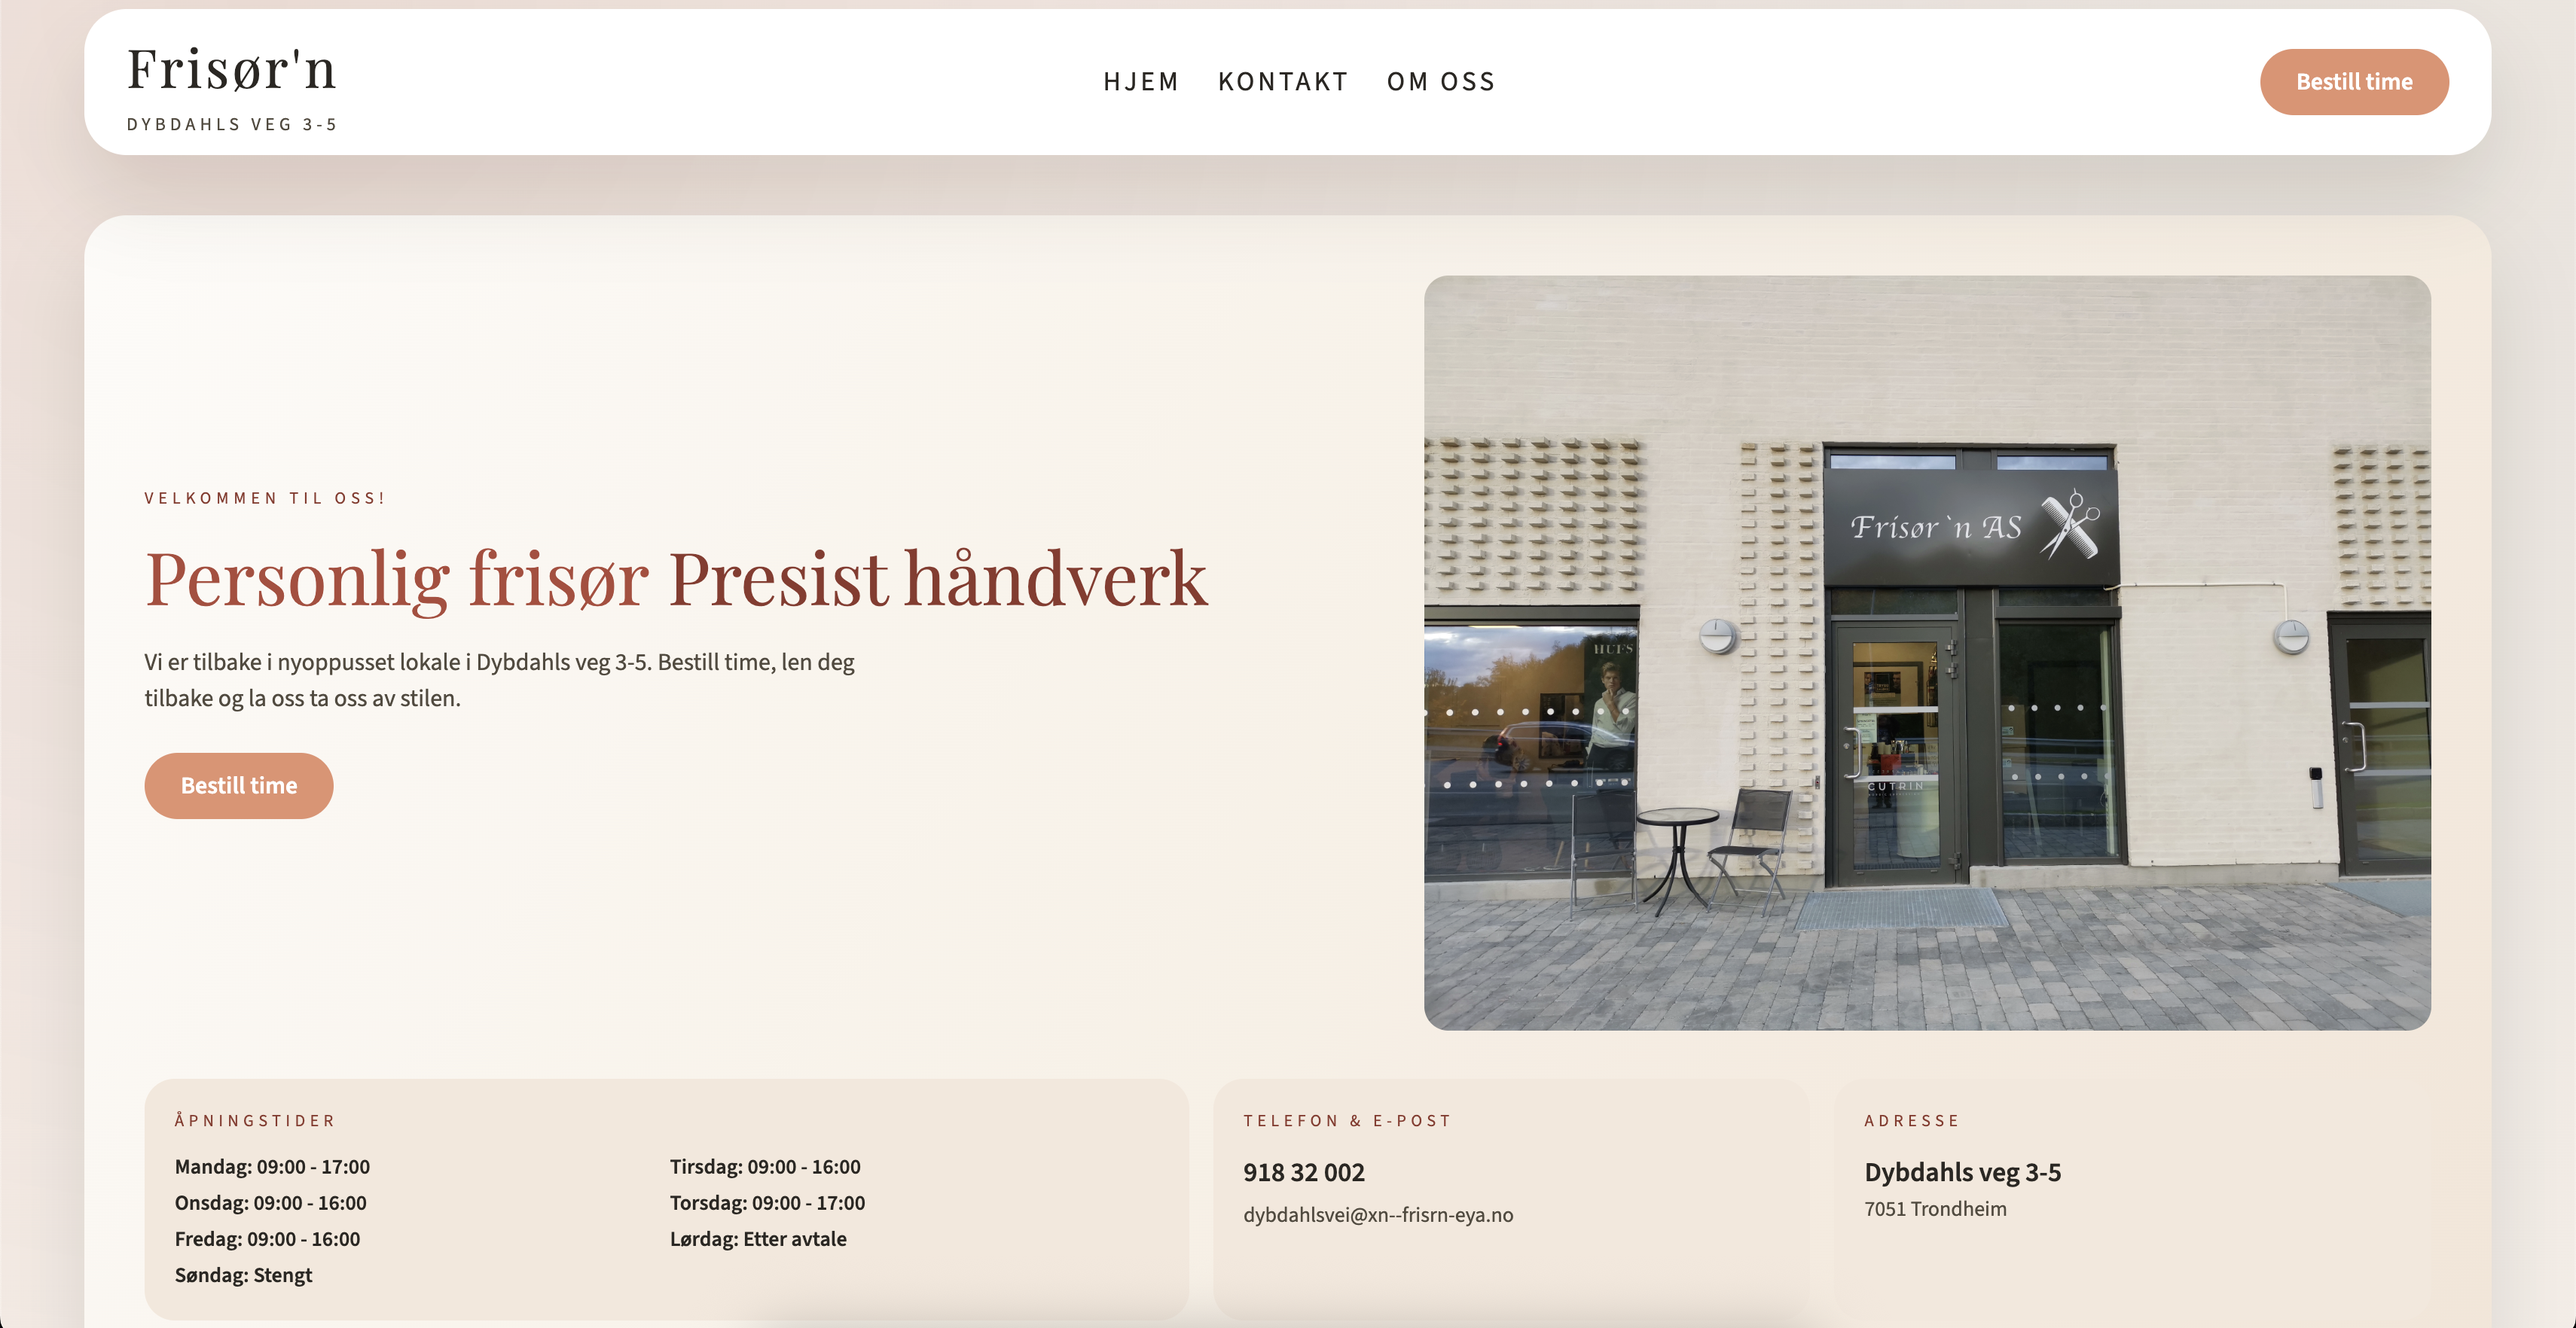
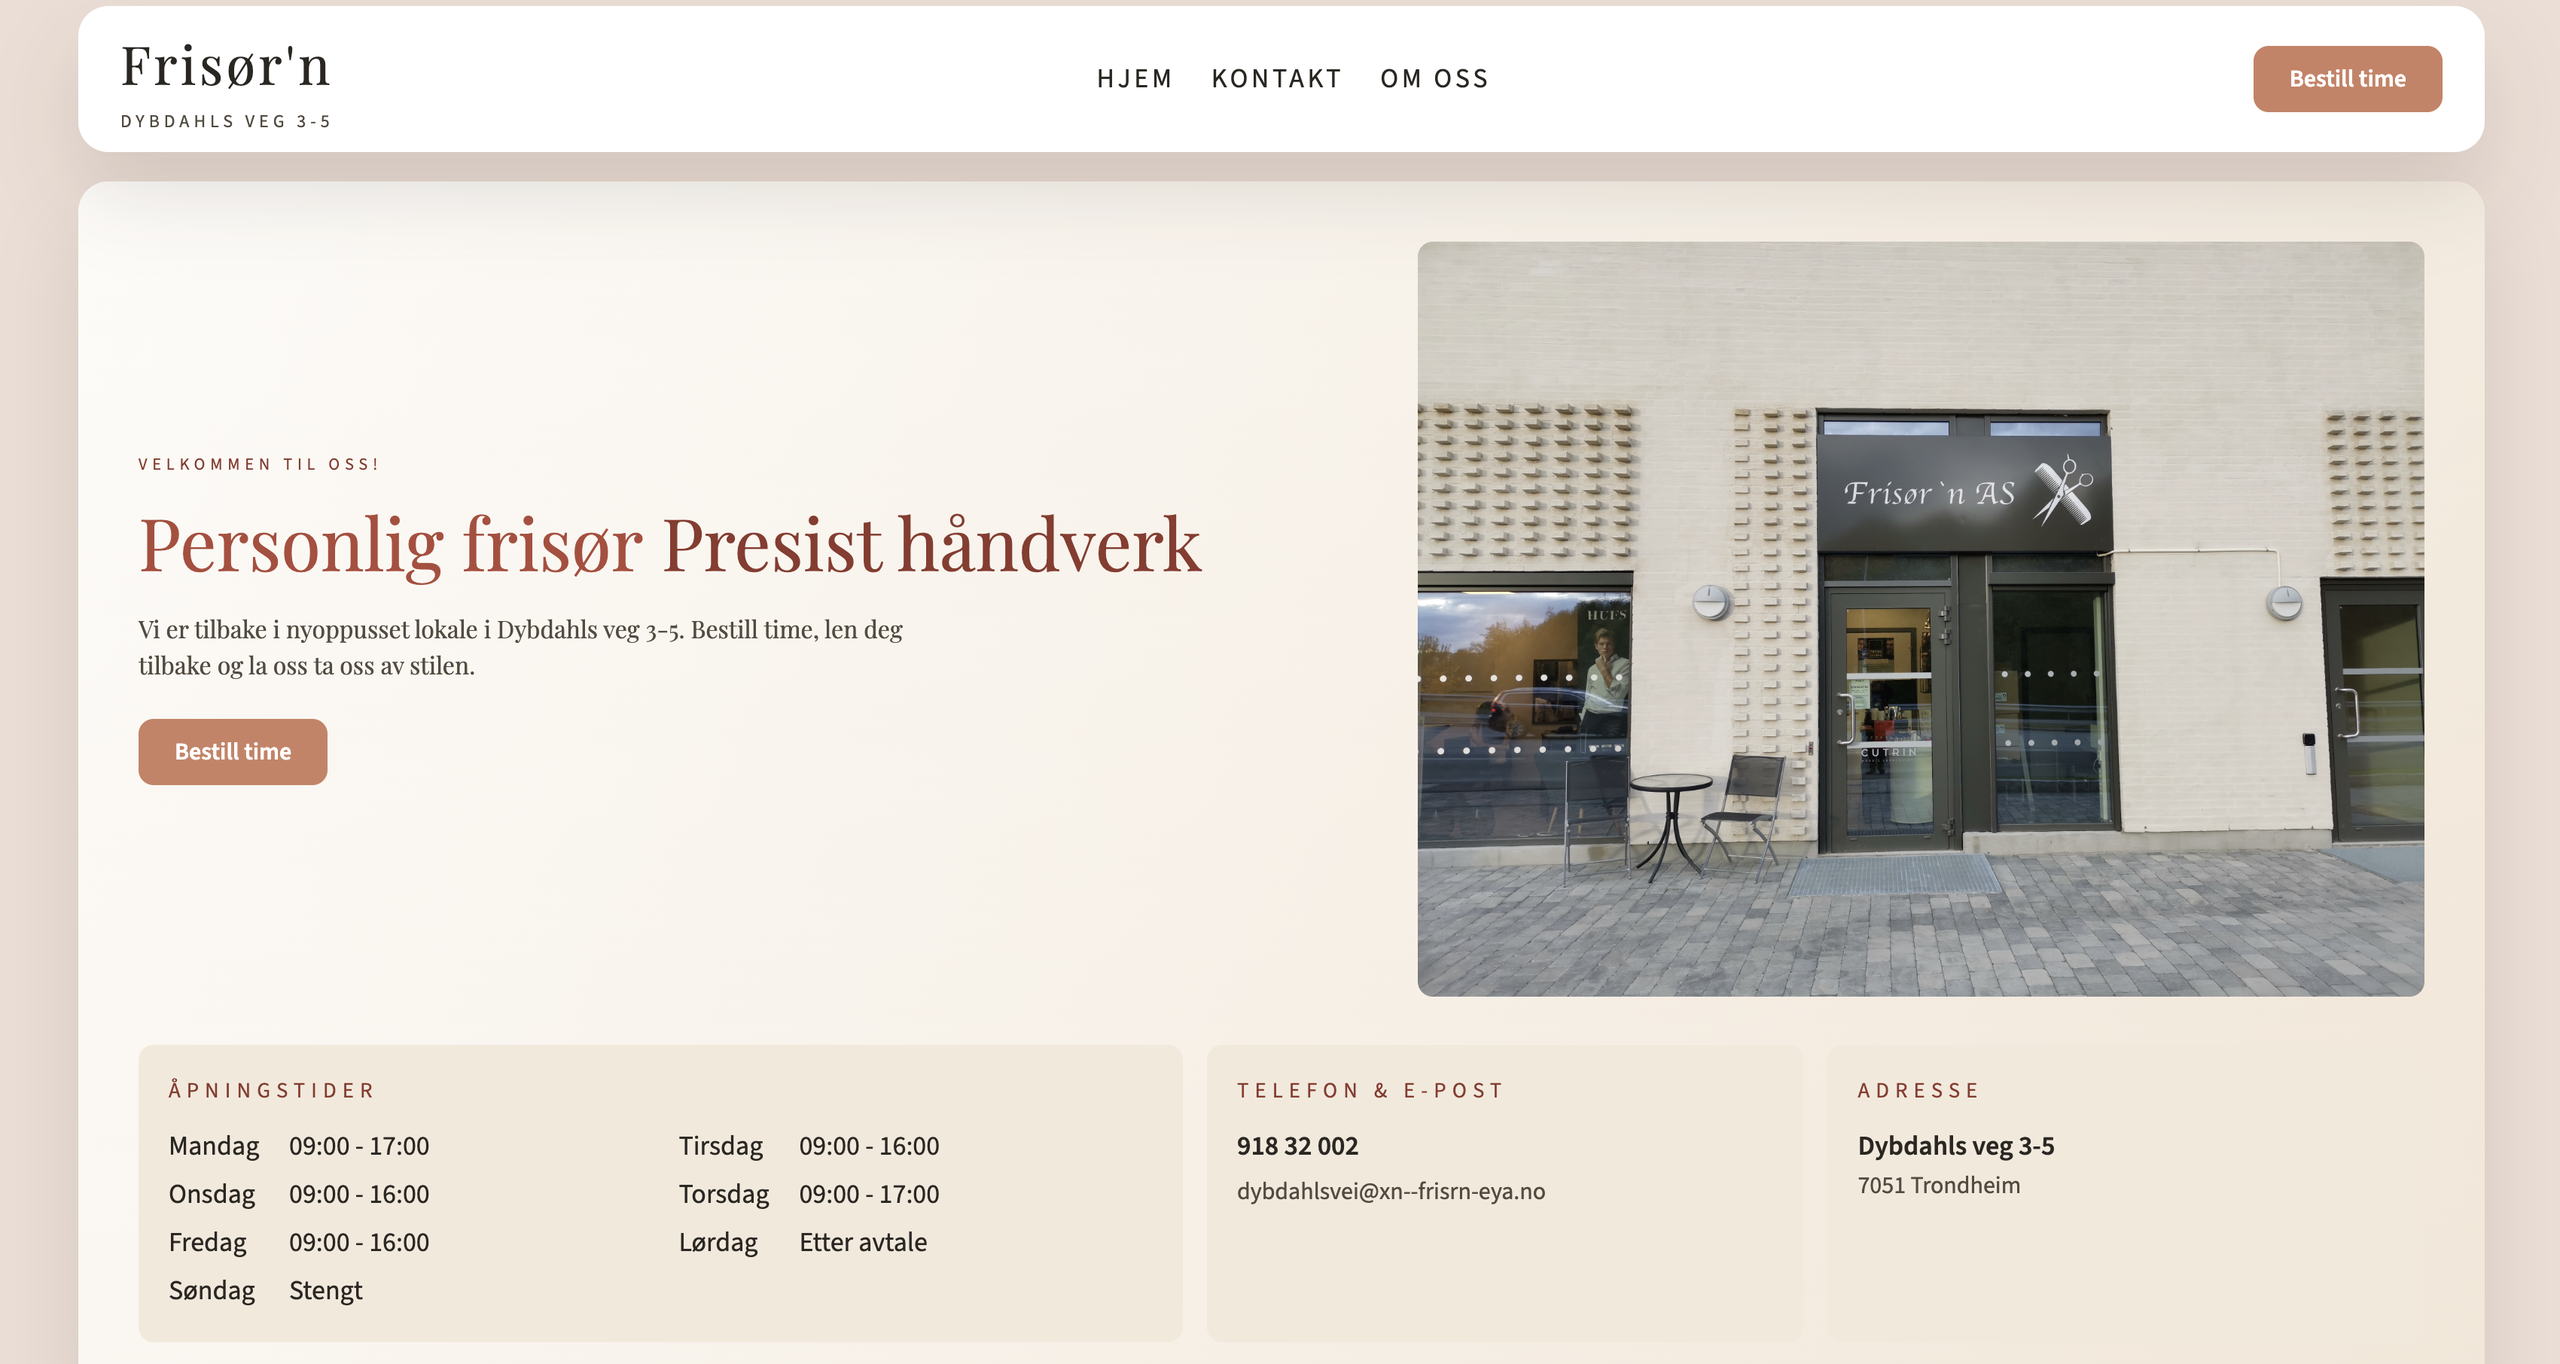
Frontpage improvement

diff --git a/frisorn/src/pages/homePage/HomePage.tsx b/frisorn/src/pages/homePage/HomePage.tsx
@@ -43,12 +43,12 @@ function HomePage() {
                     </div>
                     <div className="mt-8 grid gap-4 lg:grid-cols-[1.4fr_0.8fr_0.8fr]">
                         <div className="rounded-[var(--radius-card)] border-[var(--border-width)] border-border bg-surface-warm p-5">
-                            <p className="text-[0.7rem] uppercase tracking-[0.28em] text-accent-dark">
+                            <p className="text-[0.9rem] uppercase tracking-[0.28em] text-accent-dark">
                                 Åpningstider
                             </p>
-                            <dl className="mt-3 grid gap-x-6 gap-y-1 text-xs text-text sm:grid-cols-2 sm:text-sm">
+                            <dl className="mt-3 grid gap-x-6 gap-y-1 text-m text-text sm:grid-cols-2 sm:text-sm">
                                 {openingHours.map(({ day, hours }) => (
-                                    <div key={day} className="grid grid-cols-[4.5rem_1fr] gap-2">
+                                    <div key={day} className="grid grid-cols-[4.5rem_1fr] text-lg gap-2">
                                         <dt>{day}</dt>
                                         <dd className="tabular-nums">{hours}</dd>
                                     </div>
@@ -56,23 +56,23 @@ function HomePage() {
                             </dl>
                         </div>
                         <div className="rounded-[var(--radius-card)] border-[var(--border-width)] border-border bg-surface-warm p-5">
-                            <p className="text-[0.7rem] uppercase tracking-[0.28em] text-accent-dark">
+                            <p className="text-[0.9rem] uppercase tracking-[0.28em] text-accent-dark">
                                 Telefon & e-post
                             </p>
                             <p className="mt-3 text-lg font-semibold text-text">918 32 002</p>
                             <a
-                                className="mt-1 inline-flex text-sm text-muted hover:text-accent-dark"
+                                className="mt-1 inline-flex text-md text-muted hover:text-accent-dark"
                                 href="mailto:dybdahlsvei@xn--frisrn-eya.no"
                             >
                                 dybdahlsvei@xn--frisrn-eya.no
                             </a>
                         </div>
                         <div className="rounded-[var(--radius-card)] border-[var(--border-width)] border-border bg-surface-warm p-5">
-                            <p className="text-[0.7rem] uppercase tracking-[0.28em] text-accent-dark">
+                            <p className="text-[0.9rem] uppercase tracking-[0.28em] text-accent-dark">
                                 Adresse
                             </p>
                             <p className="mt-3 text-lg font-semibold text-text">Dybdahls veg 3-5</p>
-                            <p className="text-sm text-muted">7051 Trondheim</p>
+                            <p className="text-md text-muted">7051 Trondheim</p>
                         </div>
                     </div>
                 </Box>
